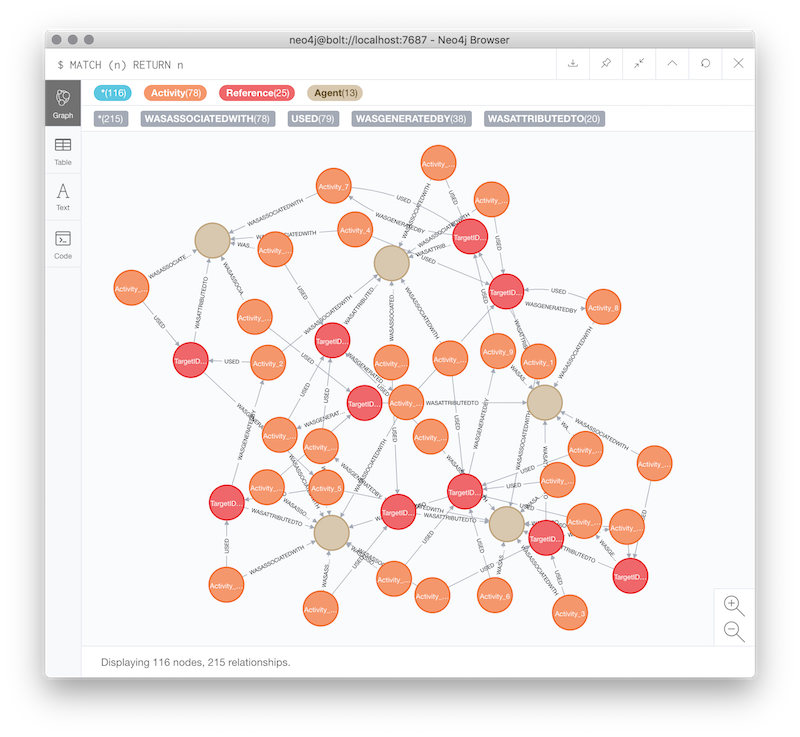
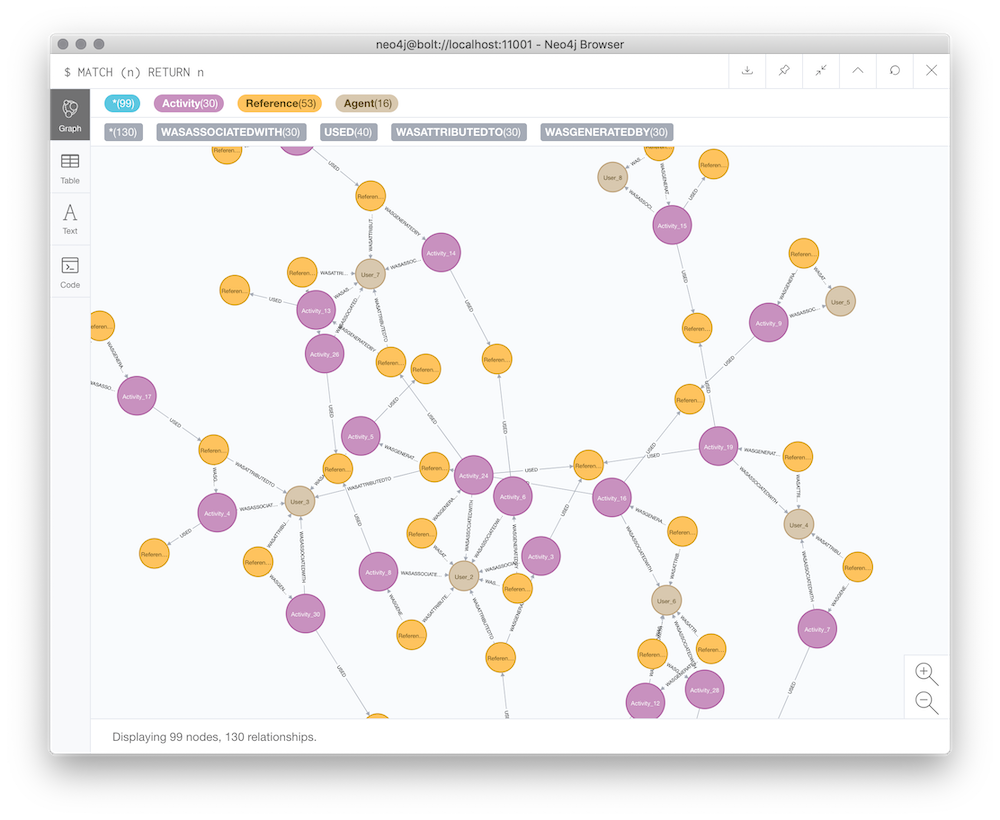
update README with cli instructions/examples

diff --git a/README.md b/README.md
@@ -39,6 +39,27 @@ To start the app, you can use this command:
 synprov
 ```
 
+To initialize the graph database with mock activity records, you can run the app with additional parameters:
+```shell
+synprov --mock_db --db_size 30
+```
+
+To view the full set of parameters:
+```shell
+synprov --help
+```
+
+```shell
+Usage: synprov [OPTIONS]
+
+Options:
+  --mock_db          Initialize Neo4j database with mock graph records
+                     [default: False]
+  --db_size INTEGER  Number of mock activity records to create in the graph
+                     database (ignored if 'init_db' is False).  [default: 50]
+  --help             Show this message and exit.
+```
+
 ### Neo4j browser
 
 If you have the **Neo4j Desktop** application installed, you should be able to view and explore the graph database using Cypher queries. For example, to view all nodes and relationships:
@@ -46,6 +67,8 @@ If you have the **Neo4j Desktop** application installed, you should be able to v
 ```cypher
 MATCH (n) RETURN n
 ```
+
+Assuming that you populated the graph database with mock/example records as described above, you should see something that looks like this (minus the custom colors):
 
 ![example provenance graph](img/mockprov.png)
 
